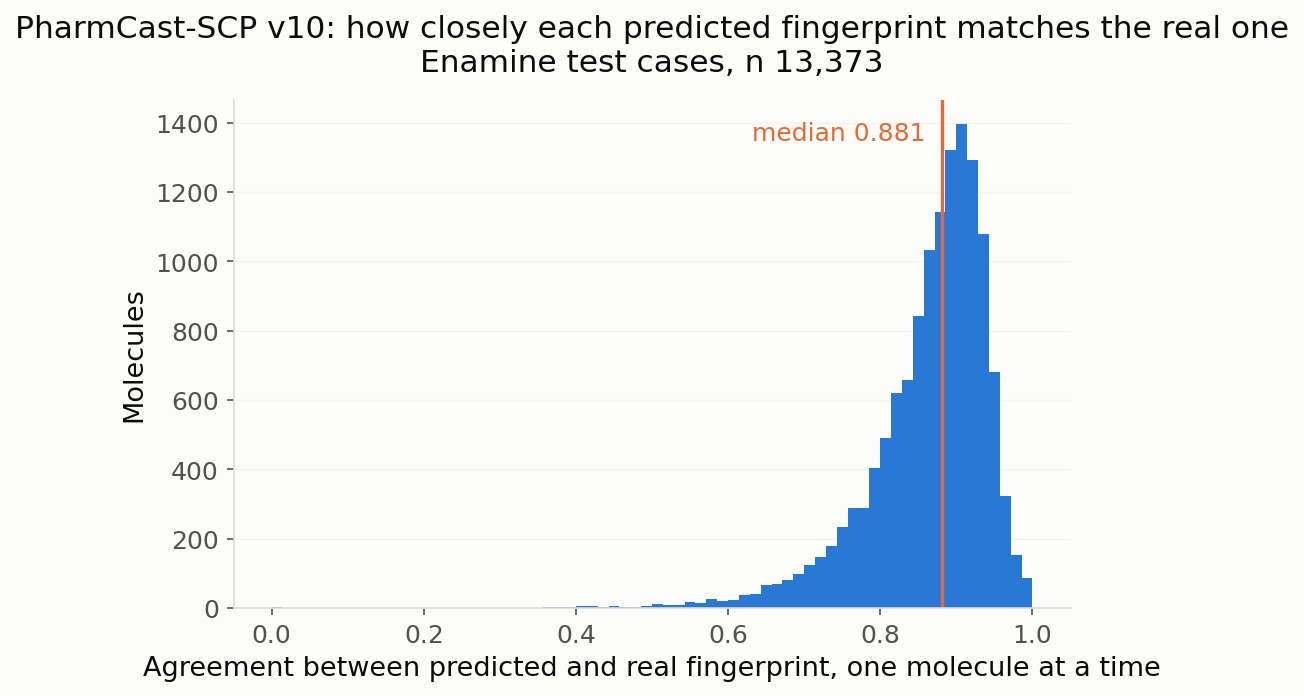
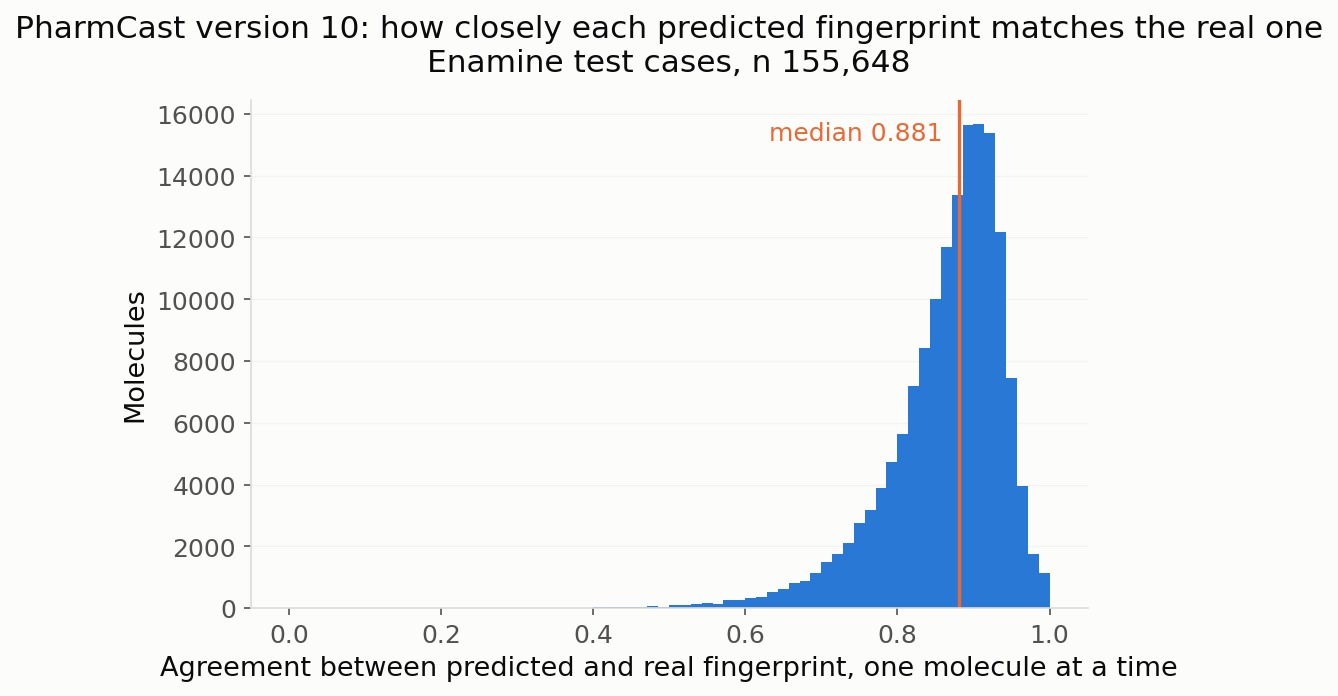
Re-score against the finished test build, and drop the "no email" claim
The screening collection test arm finished building at 06:07 and all three
test populations were scored in one run, so the counts moved and four
values with them.

Catalogue chemistry: n 13,373 to 155,648, ranking 0.935 to 0.936. ChEMBL:
n 37,800 to 139,700, within 0.05 76% to 75%, r 0.938 to 0.936, ranking
0.890 to 0.889. Loop peptides unchanged at 13,500.

The paragraph above the table described the old catalogue population as
the residue of a finished build. It is not that any more. It is 155,648
real, purchasable June 2026 catalogue compounds that the ingest filter
excluded, spanning 42 to 977 Da, which no version has trained on and none
can. The residue and representative-sample framing is gone.

Added one sentence: the held-out ChEMBL molecules span 374.4 to 398.1 Da
and nothing else, because the build proceeds in ascending molecular
weight. Without it a reader takes the ChEMBL row as a result about ChEMBL
as a whole.

Three regenerated figures: per-molecule-mcc now draws the screening
collection test cases at median 0.881, not the peptide set at 0.914;
not-2d-similarity is 25,165 pairs at 0.966, 0.981, 0.973, 0.959 and
0.942. A further paragraph quoted 0.024 and 0.935 against 0.017 and
0.974, contradicting this page's own table; brought to 0.027 and 0.936
against 0.008 and 0.980.

Removed "no install, no email" from the hero line. The site offers to
take an email, so the claim was wrong.

Claude-Session: https://claude.ai/code/session_015ZSeUKPi5XUW6t8jZLsfnb

diff --git a/README.md b/README.md
@@ -18,7 +18,7 @@ PharmCast reads a SMILES and predicts all 10,549 pharmacophores directly. It
 removes the conformational stage rather than accelerating it, which is why the
 speed-up is of a different order to what optimisation normally buys.
 
-**[Try it now at pharmcast.ai](https://pharmcast.ai/)**, no install, no email.
+**[Try it now at pharmcast.ai](https://pharmcast.ai/)**
 
 - **[Fingerprint a molecule](https://pharmcast.ai/fingerprint.html)**: draw or
   paste one structure and get its complete predicted fingerprint: which of the
@@ -384,17 +384,20 @@ with these same 120 characters. The counts move with the model.*
 The peptide row is the **reserved peptide test set**: 13,500 loops held back from the training set and never trained on. It is the largest and most stable of the three
 populations and the one to read first.
 
-The catalogue and ChEMBL rows are every molecule fingerprinted after the training set was frozen. **Catalogue fingerprinting is now complete at 99.83% of the
-eligible set**, so only 13,373 catalogue molecules remain outside training. That
-residue is the tail of a finished build rather than a representative sample, and
-its n is stated for that reason.
+The catalogue row is 155,648 real, purchasable June 2026 catalogue compounds
+that the ingest filter excluded, so no version has trained on them and none can.
+They span 42 to 977 Da. The ChEMBL row is every ChEMBL molecule fingerprinted
+after the training set was frozen.
 
 | Population | n | Median error | Within 0.05 | Pearson *r* | Ranking acc. |
 |---|---:|---:|---:|---:|---:|
 | Loop peptides, reserved test set | 13,500 | 0.016 | 88% | 0.984 | 0.952 |
-| ChEMBL, activity backed | 37,800 | 0.027 | 76% | 0.938 | 0.890 |
-| Catalogue chemistry | 13,373 | 0.008 | 89% | 0.980 | 0.935 |
+| ChEMBL, activity backed | 139,700 | 0.027 | 75% | 0.936 | 0.889 |
+| Catalogue chemistry | 155,648 | 0.008 | 89% | 0.980 | 0.936 |
 | *Reference against itself* | | *0.006* | | *0.995* | *ceiling* |
+
+The held-out ChEMBL molecules span 374.4 to 398.1 Da and nothing else, because the
+fingerprint build proceeds in ascending molecular weight.
 
 Ranking accuracy is the fraction of molecule triples the model orders the same
 way the reference does, exact ties excluded.
@@ -425,20 +428,20 @@ the three.*
 ![Per-molecule Matthews correlation coefficient between the predicted and the real fingerprint for PharmCast version 10](assets/per-molecule-mcc.jpg)
 
 *How closely each individual predicted fingerprint matches the real one, as the
-Matthews correlation coefficient per molecule. **version 10**, median 0.914 on the
-13,500 molecule reserved peptide test set.*
+Matthews correlation coefficient per molecule. **version 10**, median 0.881 across
+the screening collection test cases.*
 
 ### It is not re-deriving 2D similarity
 
-![Predicted against reference pharmacophore similarity for 25,091 unique pairs, each point coloured by the two dimensional Morgan similarity of that pair, with Pearson reported within each of five two dimensional bands](assets/not-2d-similarity.jpg)
+![Predicted against reference pharmacophore similarity for 25,165 unique pairs, each point coloured by the two dimensional Morgan similarity of that pair, with Pearson reported within each of five two dimensional bands](assets/not-2d-similarity.jpg)
 
 *Predicted against reference pairwise similarity, coloured by two dimensional
 Morgan similarity, green for the most dissimilar pairs through red for the least.
 Agreement does not depend on two dimensional similarity, so the model is
 predicting three dimensional feature geometry rather than restating its own
-input. PharmCast version 10 on 25,091 unique held-out pairs, stratified into five
-two dimensional bands. Pearson within the bands is 0.965, 0.983, 0.975, 0.963 and
-0.929, from the least two dimensionally similar to the most.*
+input. PharmCast version 10 on 25,165 unique held-out pairs, stratified into five
+two dimensional bands. Pearson within the bands is 0.966, 0.981, 0.973, 0.959 and
+0.942, from the least two dimensionally similar to the most.*
 
 ## Applicability domain: read this before trusting a score
 
@@ -456,7 +459,7 @@ by extrapolating from a few thousand peptides: error rose from 0.02 to 0.07 and
 *r* fell from 0.97 to 0.63.
 
 **ChEMBL exists to close exactly that gap, and it is working.** Activity-backed
-ChEMBL chemistry scores 0.024 median error at *r* 0.935, against 0.017 and 0.974
+ChEMBL chemistry scores 0.027 median error at *r* 0.936, against 0.008 and 0.980
 for catalogue chemistry. The gap is now small. It is not closed: the training set is built in ascending molecular weight, so competence extends upward as it fills
 rather than covering the whole range at once. ChEMBL remains the widest of the
 three populations and is the number to watch.
